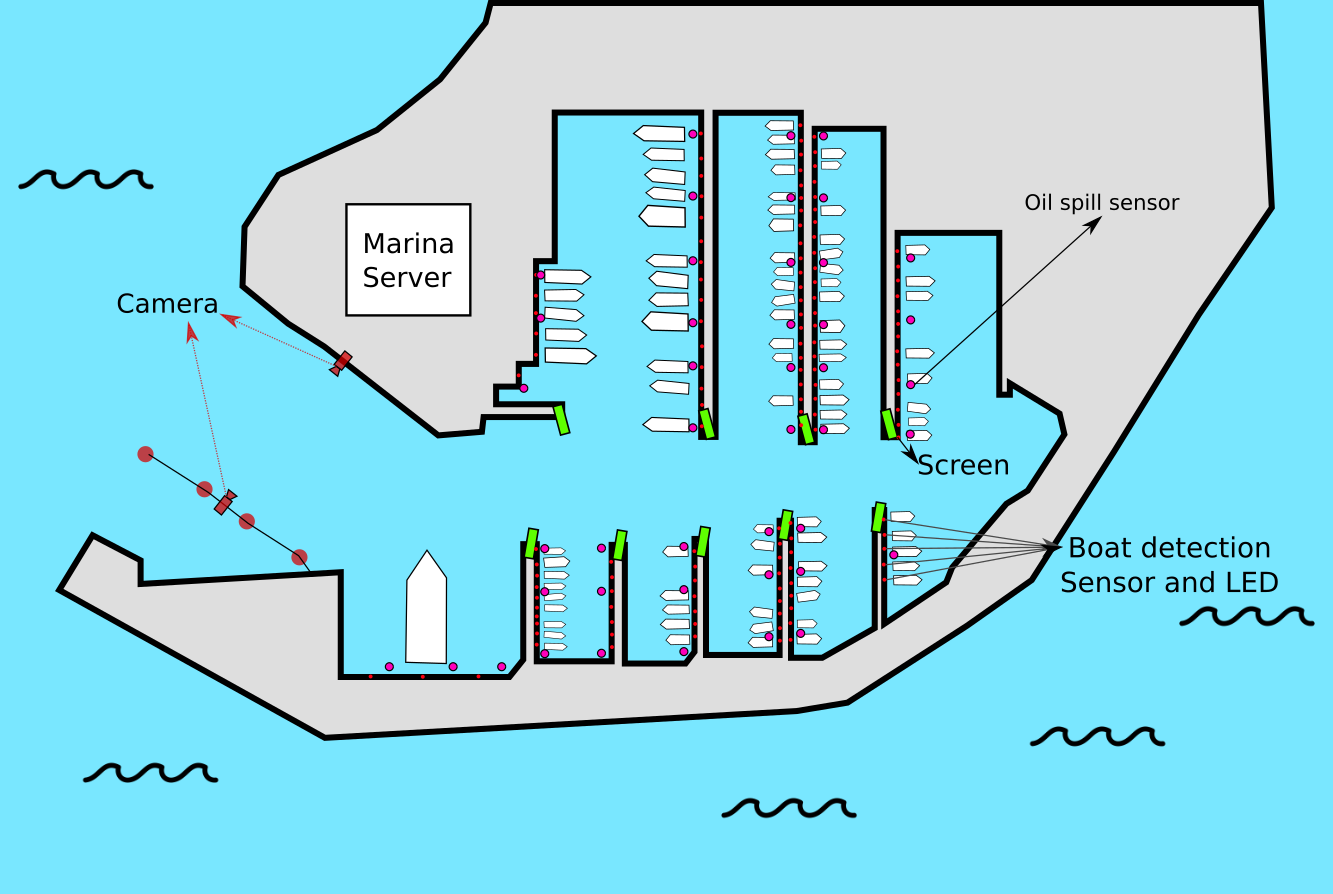
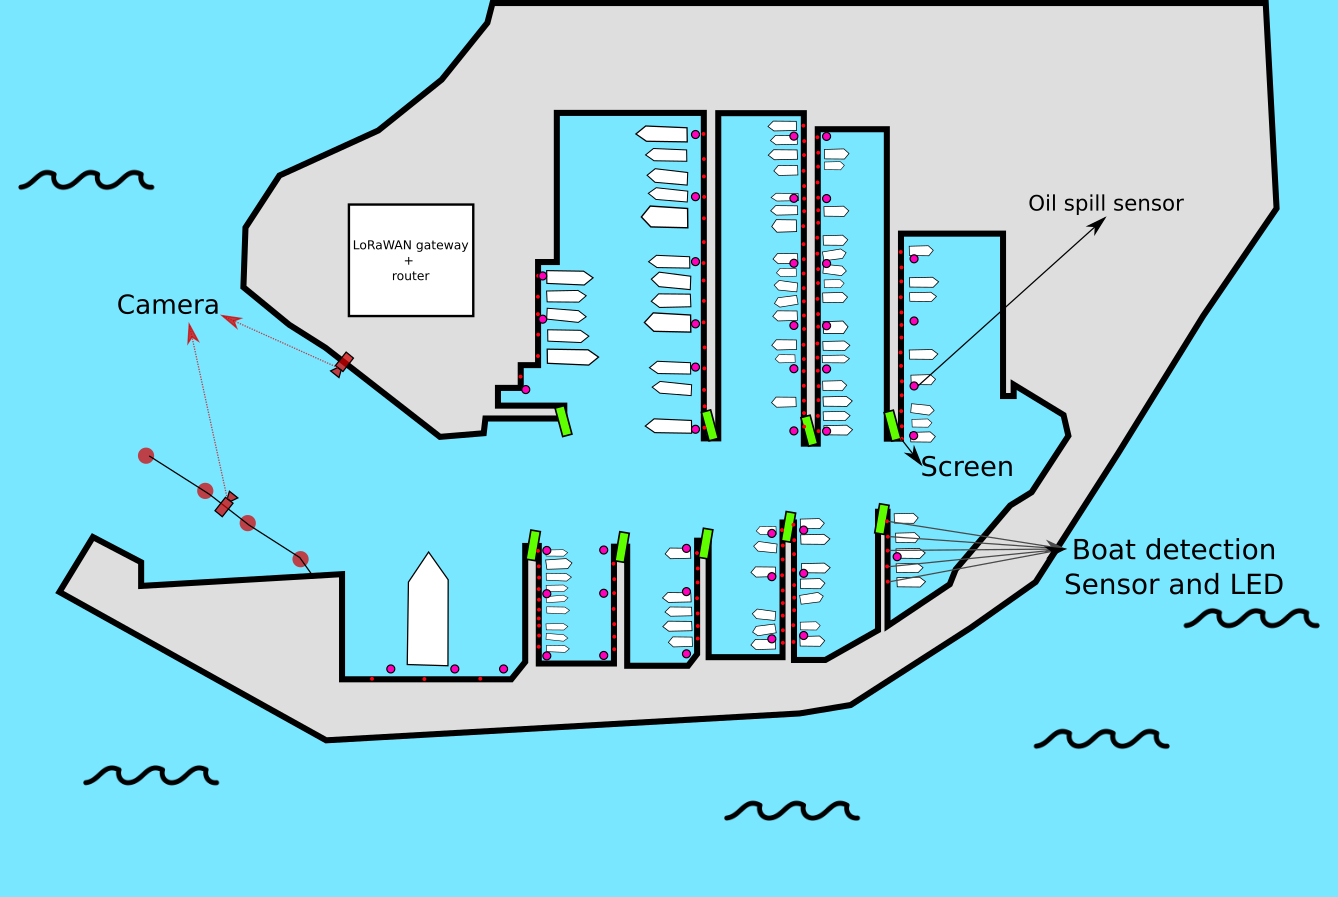
Technology.md updated

diff --git a/Technology.md b/Technology.md
@@ -10,12 +10,12 @@ The main macro components are:
 
 - **Boat name identifier** at the marina entrance there is camera used to identify the boat name to check if there is a dock reservation.
 - **Screens**, inside the marina there are some screens, useful to give indications at the sailor to find his dock spot.
-- **Park sensor**, for each dock there is a sensor to detect if a boat is presents and a LED that blink when a sailor is searching his dock.
+- **Dock sensor**, for each dock there is a sensor to detect if a boat is presents and a LED that blink when a sailor is searching his dock.
 
 ### Dock device
 
 For each dock there is a LED (that blink when someone was finding his dock position) and a sonar to detects if the boat is present.
-A single stm32 board is used for multiple dock, and it use a MQTT interface to communicate with the marine server.
+A single stm32 board is used for multiple dock, and it use a LoRaWAN interface to communicate with the LoRaWAN gateway installed on the marina.
 
 <img src="resources/images/dock_device.png" alt="Dock device" style="zoom: 50%;" />
 
@@ -40,7 +40,7 @@ The prototype of the monitor device is composed by a board:
 
 The display is driven by a SSD1306 and is connected to the main board via I2C 
 
-This device is connected via MQTT to the marina server using 6LoWPAN.
+This device is connected via LoRaWAN to the marina LoRaWAN gateway.
 
 [Get more details here](src/Devices/MonitorDevice)
 
@@ -51,17 +51,23 @@ For each side there are:
 
 - **Camera** 
 - **Raspberry PI** to read the name of the boat.
-- **Network Interface** that sends computed data to the marina server over MQTT on 6LoWPAN.
+- **Network Interface** that sends computed data to the marina server over MQTT on a LAN connection.
 
-Image processing is executed in the raspberry pi and the read name is sent.
+Image processing is executed in the Raspberry Pi and the read name is sent.
 
-**Marina server** in which are local computation are executed.
+### Boat detection with GPS
 
-It's composed by:
+If the camera device cannot detect the plate of a boat, there is a backup system that uses the GPS to detect when a boat is at the entrance of the marina.
+If the boat is not detected with the cameras, the sailor has to open this [web page](https://kernel-machine.github.io/IoTGroupProject/#/gps), enter the boat plate, and keeping opened the web page the boat position is sent periodically to the cloud.
 
-- **Network interface** that communicate with all the devices installed in the marina over 6LoWPAN.
-- **STM32 Board** the local elaboration node.
-- **Internet interface** to connect the local system to the cloud.
+When the marina system detects that the boat is enough nearly to enter in the marina, the sailor can close the web page and the signs are shown on the monitors.
+
+### Addition components
+
+In the marina there are 2 addition components:
+
+- **LoRaWAN gateway**, used to connect all LoRa device to the cloud.
+- A **router** with internet connection, used to provide an internet connection at the camera devices and the LoRa gateway.
 
 ### Software components and Network infrastructure
 
@@ -93,3 +99,9 @@ When the boat reaches its docking spot a dock device message triggers the last l
 To conclude when a docking device detects that a docking spot is free again because a boat leaved, it sends a message that triggers again the `removeReservation` function that in this case will delete the reservation and restore the docking spot status to free.
 
 For more details about the messages exchanged by these components check the [dedicated folder](src/AWS).
+
+### Prototype convention
+
+To test the real hardware isn't used LoRaWAN, but the board is connected to internet with ETHOS.
+
+While for the network tests [The Things Network](https://www.thethingsnetwork.org/) is used, the boards are replaced with the [ST B-L072Z-LRWAN1](https://www.iot-lab.info/docs/boards/st-b-l072z-lrwan1/) and the values read by the sensors are replaced with dummy data.
